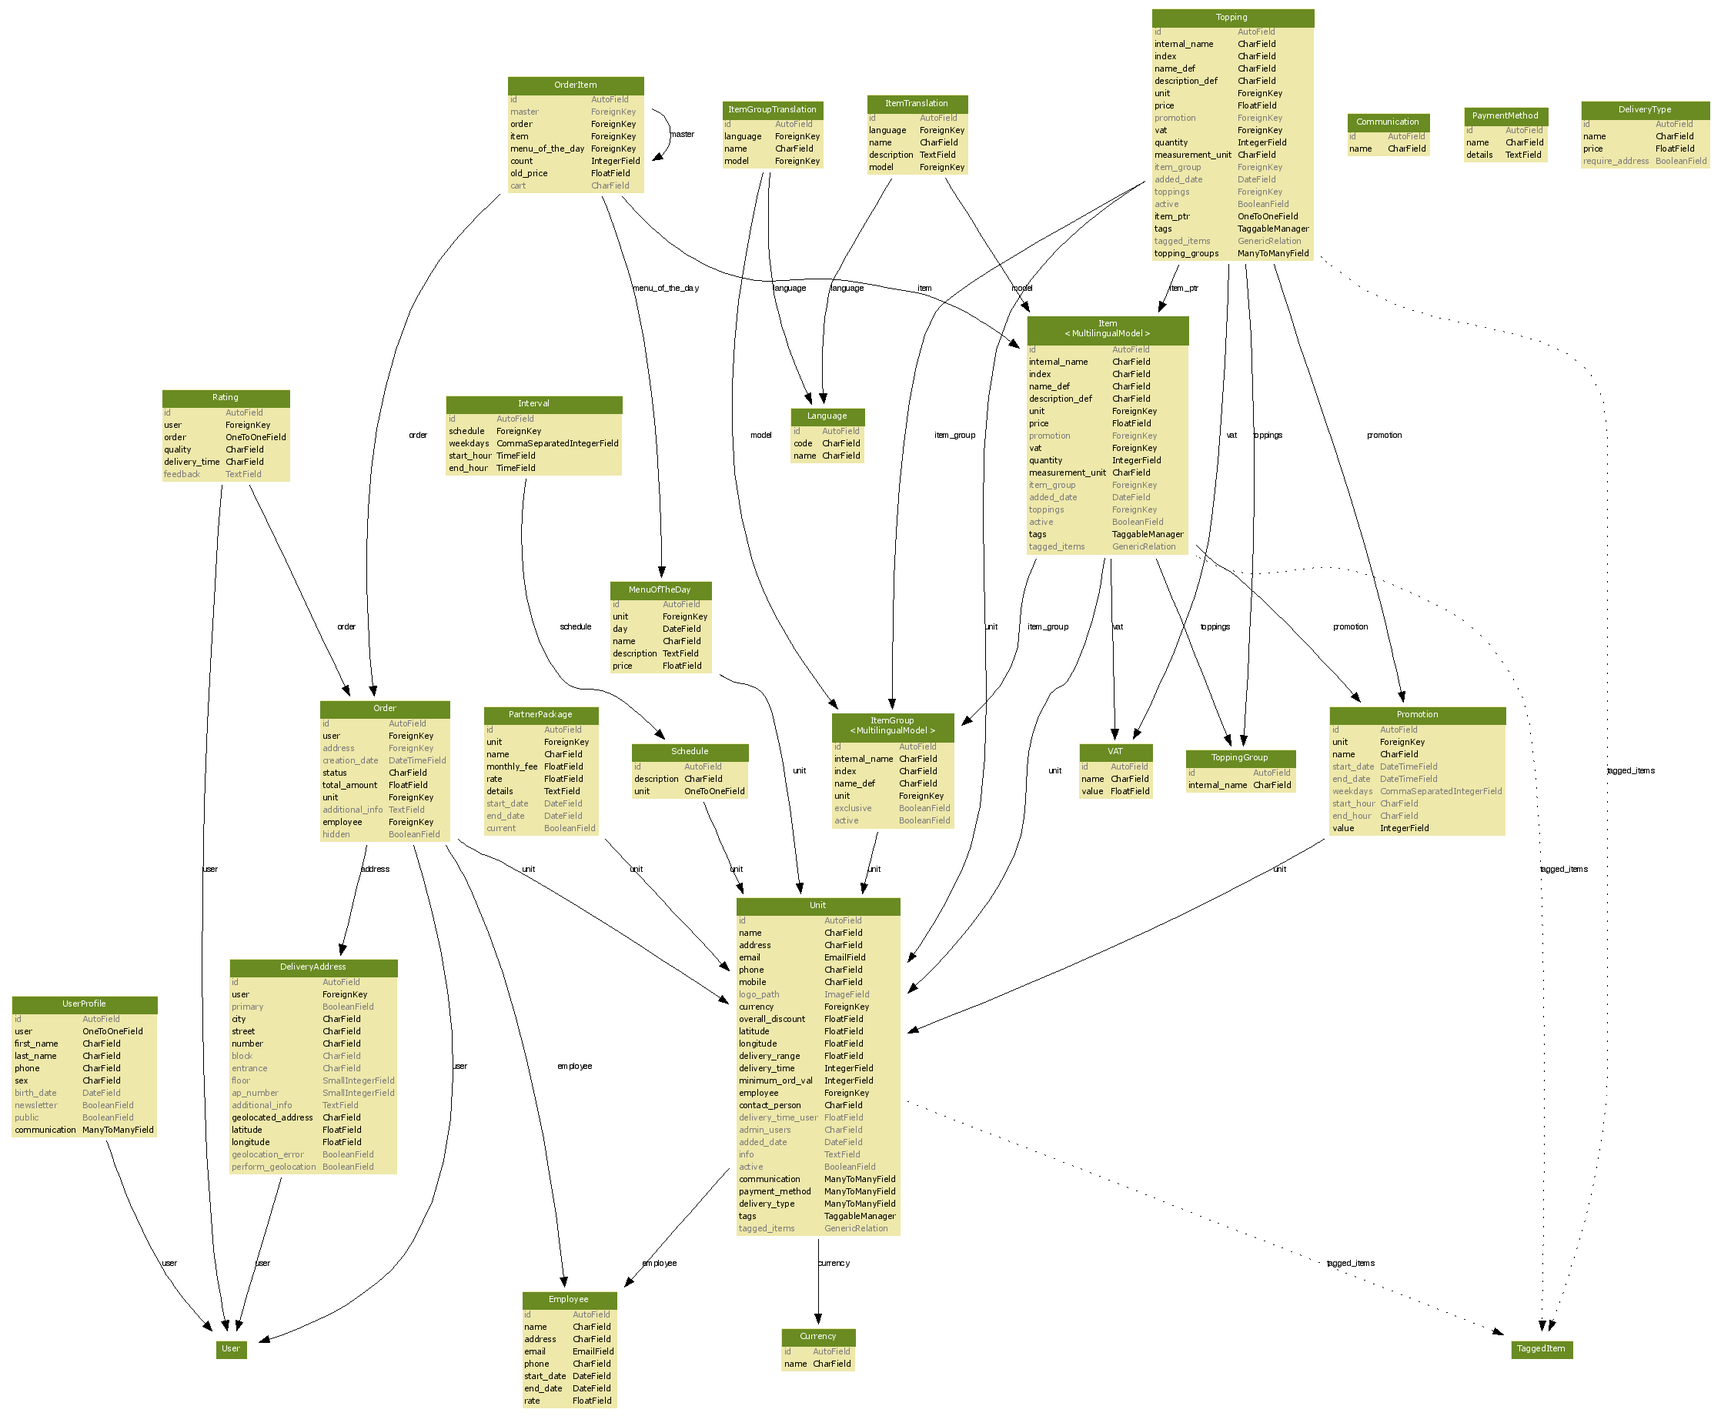
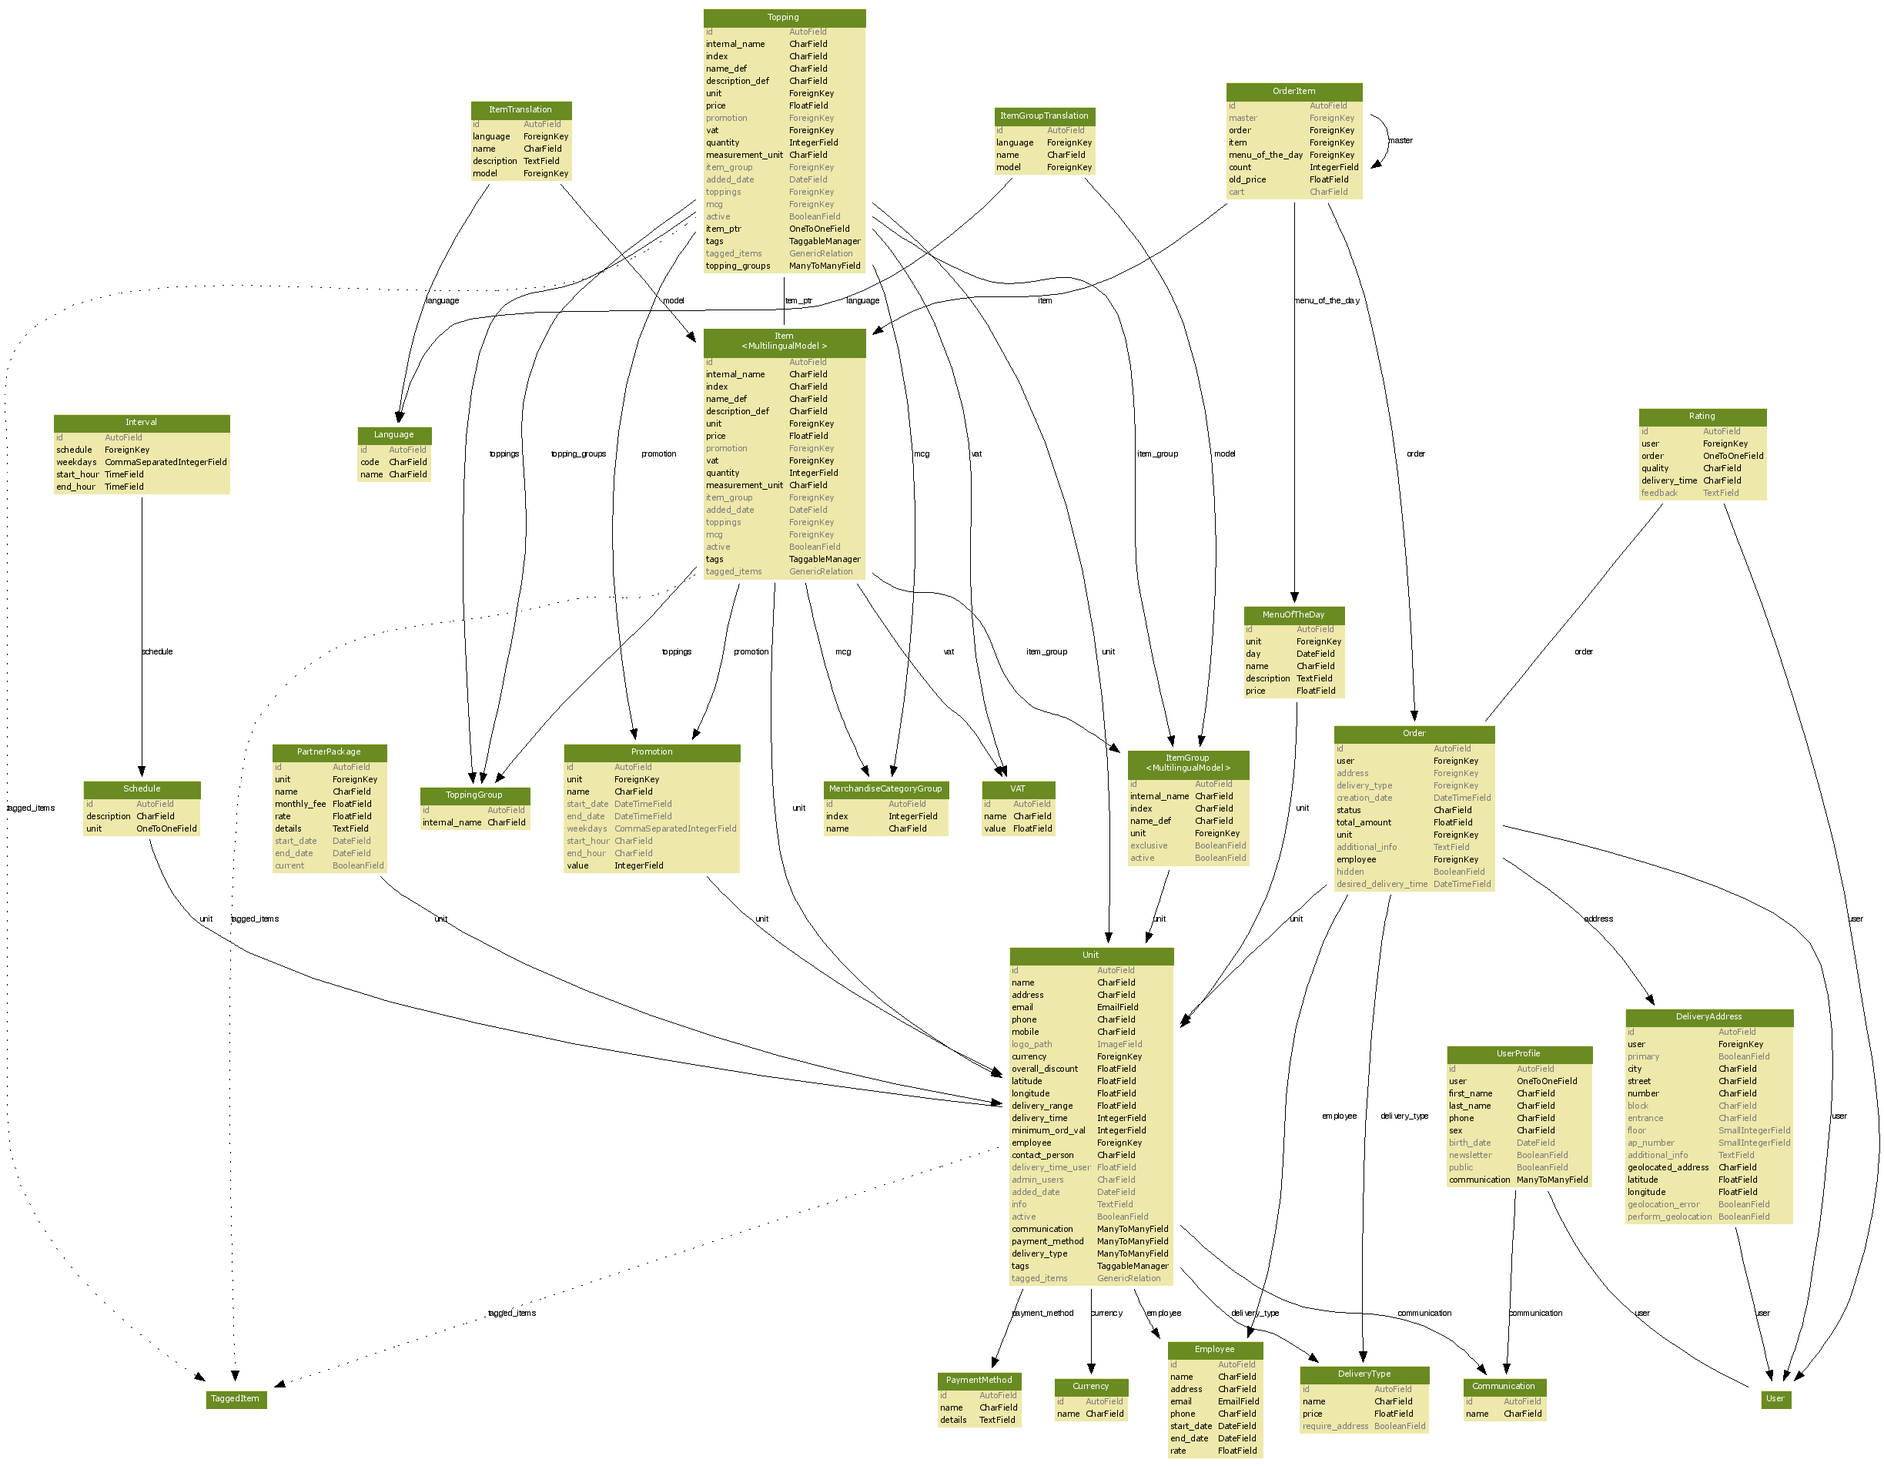
mcg and small spelling corrections

diff --git a/menu/migrations/0018_auto__add_merchandisecategorygroup__add_field_item_mcg.py b/menu/migrations/0018_auto__add_merchandisecategorygroup__add_field_item_mcg.py
@@ -1,0 +1,209 @@
+# encoding: utf-8
+import datetime
+from south.db import db
+from south.v2 import SchemaMigration
+from django.db import models
+
+class Migration(SchemaMigration):
+
+    def forwards(self, orm):
+        
+        # Adding model 'MerchandiseCategoryGroup'
+        db.create_table('menu_merchandisecategorygroup', (
+            ('id', self.gf('django.db.models.fields.AutoField')(primary_key=True)),
+            ('index', self.gf('django.db.models.fields.IntegerField')()),
+            ('name', self.gf('django.db.models.fields.CharField')(max_length=50)),
+        ))
+        db.send_create_signal('menu', ['MerchandiseCategoryGroup'])
+
+        # Adding field 'Item.mcg'
+        db.add_column('menu_item', 'mcg', self.gf('django.db.models.fields.related.ForeignKey')(to=orm['menu.MerchandiseCategoryGroup'], null=True, blank=True), keep_default=False)
+
+
+    def backwards(self, orm):
+        
+        # Deleting model 'MerchandiseCategoryGroup'
+        db.delete_table('menu_merchandisecategorygroup')
+
+        # Deleting field 'Item.mcg'
+        db.delete_column('menu_item', 'mcg_id')
+
+
+    models = {
+        'contenttypes.contenttype': {
+            'Meta': {'ordering': "('name',)", 'unique_together': "(('app_label', 'model'),)", 'object_name': 'ContentType', 'db_table': "'django_content_type'"},
+            'app_label': ('django.db.models.fields.CharField', [], {'max_length': '100'}),
+            'id': ('django.db.models.fields.AutoField', [], {'primary_key': 'True'}),
+            'model': ('django.db.models.fields.CharField', [], {'max_length': '100'}),
+            'name': ('django.db.models.fields.CharField', [], {'max_length': '100'})
+        },
+        'menu.item': {
+            'Meta': {'ordering': "['index']", 'object_name': 'Item'},
+            'active': ('django.db.models.fields.BooleanField', [], {'default': 'True'}),
+            'added_date': ('django.db.models.fields.DateField', [], {'auto_now_add': 'True', 'blank': 'True'}),
+            'description_def': ('django.db.models.fields.CharField', [], {'max_length': '200'}),
+            'id': ('django.db.models.fields.AutoField', [], {'primary_key': 'True'}),
+            'index': ('django.db.models.fields.CharField', [], {'max_length': '50'}),
+            'internal_name': ('django.db.models.fields.CharField', [], {'max_length': '50'}),
+            'item_group': ('django.db.models.fields.related.ForeignKey', [], {'to': "orm['menu.ItemGroup']", 'null': 'True', 'blank': 'True'}),
+            'mcg': ('django.db.models.fields.related.ForeignKey', [], {'to': "orm['menu.MerchandiseCategoryGroup']", 'null': 'True', 'blank': 'True'}),
+            'measurement_unit': ('django.db.models.fields.CharField', [], {'default': "'GR'", 'max_length': '2'}),
+            'name_def': ('django.db.models.fields.CharField', [], {'max_length': '50'}),
+            'price': ('django.db.models.fields.FloatField', [], {}),
+            'promotion': ('django.db.models.fields.related.ForeignKey', [], {'to': "orm['menu.Promotion']", 'null': 'True', 'blank': 'True'}),
+            'quantity': ('django.db.models.fields.IntegerField', [], {}),
+            'toppings': ('django.db.models.fields.related.ForeignKey', [], {'to': "orm['menu.ToppingGroup']", 'null': 'True', 'blank': 'True'}),
+            'unit': ('django.db.models.fields.related.ForeignKey', [], {'to': "orm['restaurant.Unit']"}),
+            'vat': ('django.db.models.fields.related.ForeignKey', [], {'to': "orm['menu.VAT']"})
+        },
+        'menu.itemgroup': {
+            'Meta': {'ordering': "['index']", 'object_name': 'ItemGroup'},
+            'active': ('django.db.models.fields.BooleanField', [], {'default': 'True'}),
+            'exclusive': ('django.db.models.fields.BooleanField', [], {'default': 'False'}),
+            'id': ('django.db.models.fields.AutoField', [], {'primary_key': 'True'}),
+            'index': ('django.db.models.fields.CharField', [], {'max_length': '50'}),
+            'internal_name': ('django.db.models.fields.CharField', [], {'max_length': '50'}),
+            'name_def': ('django.db.models.fields.CharField', [], {'max_length': '50'}),
+            'unit': ('django.db.models.fields.related.ForeignKey', [], {'to': "orm['restaurant.Unit']"})
+        },
+        'menu.itemgrouptranslation': {
+            'Meta': {'object_name': 'ItemGroupTranslation'},
+            'id': ('django.db.models.fields.AutoField', [], {'primary_key': 'True'}),
+            'language': ('django.db.models.fields.related.ForeignKey', [], {'to': "orm['menu.Language']"}),
+            'model': ('django.db.models.fields.related.ForeignKey', [], {'to': "orm['menu.ItemGroup']"}),
+            'name': ('django.db.models.fields.CharField', [], {'max_length': '100'})
+        },
+        'menu.itemtranslation': {
+            'Meta': {'object_name': 'ItemTranslation'},
+            'description': ('django.db.models.fields.TextField', [], {}),
+            'id': ('django.db.models.fields.AutoField', [], {'primary_key': 'True'}),
+            'language': ('django.db.models.fields.related.ForeignKey', [], {'to': "orm['menu.Language']"}),
+            'model': ('django.db.models.fields.related.ForeignKey', [], {'to': "orm['menu.Item']"}),
+            'name': ('django.db.models.fields.CharField', [], {'max_length': '100'})
+        },
+        'menu.language': {
+            'Meta': {'object_name': 'Language'},
+            'code': ('django.db.models.fields.CharField', [], {'max_length': '5'}),
+            'id': ('django.db.models.fields.AutoField', [], {'primary_key': 'True'}),
+            'name': ('django.db.models.fields.CharField', [], {'max_length': '16'})
+        },
+        'menu.menuoftheday': {
+            'Meta': {'ordering': "['-day']", 'object_name': 'MenuOfTheDay'},
+            'day': ('django.db.models.fields.DateField', [], {}),
+            'description': ('django.db.models.fields.TextField', [], {}),
+            'id': ('django.db.models.fields.AutoField', [], {'primary_key': 'True'}),
+            'name': ('django.db.models.fields.CharField', [], {'max_length': '50'}),
+            'price': ('django.db.models.fields.FloatField', [], {}),
+            'unit': ('django.db.models.fields.related.ForeignKey', [], {'to': "orm['restaurant.Unit']"})
+        },
+        'menu.merchandisecategorygroup': {
+            'Meta': {'object_name': 'MerchandiseCategoryGroup'},
+            'id': ('django.db.models.fields.AutoField', [], {'primary_key': 'True'}),
+            'index': ('django.db.models.fields.IntegerField', [], {}),
+            'name': ('django.db.models.fields.CharField', [], {'max_length': '50'})
+        },
+        'menu.promotion': {
+            'Meta': {'ordering': "['-start_date']", 'object_name': 'Promotion'},
+            'end_date': ('django.db.models.fields.DateTimeField', [], {'null': 'True', 'blank': 'True'}),
+            'end_hour': ('django.db.models.fields.CharField', [], {'max_length': '5', 'null': 'True', 'blank': 'True'}),
+            'id': ('django.db.models.fields.AutoField', [], {'primary_key': 'True'}),
+            'name': ('django.db.models.fields.CharField', [], {'max_length': '50'}),
+            'start_date': ('django.db.models.fields.DateTimeField', [], {'null': 'True', 'blank': 'True'}),
+            'start_hour': ('django.db.models.fields.CharField', [], {'max_length': '5', 'null': 'True', 'blank': 'True'}),
+            'unit': ('django.db.models.fields.related.ForeignKey', [], {'to': "orm['restaurant.Unit']"}),
+            'value': ('django.db.models.fields.IntegerField', [], {'default': '0'}),
+            'weekdays': ('django.db.models.fields.CommaSeparatedIntegerField', [], {'max_length': '13', 'null': 'True', 'blank': 'True'})
+        },
+        'menu.topping': {
+            'Meta': {'ordering': "['index']", 'object_name': 'Topping', '_ormbases': ['menu.Item']},
+            'item_ptr': ('django.db.models.fields.related.OneToOneField', [], {'to': "orm['menu.Item']", 'unique': 'True', 'primary_key': 'True'}),
+            'topping_groups': ('django.db.models.fields.related.ManyToManyField', [], {'to': "orm['menu.ToppingGroup']", 'symmetrical': 'False'})
+        },
+        'menu.toppinggroup': {
+            'Meta': {'object_name': 'ToppingGroup'},
+            'id': ('django.db.models.fields.AutoField', [], {'primary_key': 'True'}),
+            'internal_name': ('django.db.models.fields.CharField', [], {'max_length': '50'})
+        },
+        'menu.vat': {
+            'Meta': {'object_name': 'VAT'},
+            'id': ('django.db.models.fields.AutoField', [], {'primary_key': 'True'}),
+            'name': ('django.db.models.fields.CharField', [], {'max_length': '20'}),
+            'value': ('django.db.models.fields.FloatField', [], {})
+        },
+        'restaurant.communication': {
+            'Meta': {'object_name': 'Communication'},
+            'id': ('django.db.models.fields.AutoField', [], {'primary_key': 'True'}),
+            'name': ('django.db.models.fields.CharField', [], {'max_length': '200'})
+        },
+        'restaurant.currency': {
+            'Meta': {'object_name': 'Currency'},
+            'id': ('django.db.models.fields.AutoField', [], {'primary_key': 'True'}),
+            'name': ('django.db.models.fields.CharField', [], {'max_length': '20'})
+        },
+        'restaurant.deliverytype': {
+            'Meta': {'object_name': 'DeliveryType'},
+            'id': ('django.db.models.fields.AutoField', [], {'primary_key': 'True'}),
+            'name': ('django.db.models.fields.CharField', [], {'max_length': '100'}),
+            'price': ('django.db.models.fields.FloatField', [], {}),
+            'require_address': ('django.db.models.fields.BooleanField', [], {'default': 'False'})
+        },
+        'restaurant.employee': {
+            'Meta': {'object_name': 'Employee'},
+            'address': ('django.db.models.fields.CharField', [], {'max_length': '200'}),
+            'email': ('django.db.models.fields.EmailField', [], {'max_length': '75'}),
+            'end_date': ('django.db.models.fields.DateField', [], {}),
+            'id': ('django.db.models.fields.AutoField', [], {'primary_key': 'True'}),
+            'name': ('django.db.models.fields.CharField', [], {'max_length': '100'}),
+            'phone': ('django.db.models.fields.CharField', [], {'max_length': '15'}),
+            'rate': ('django.db.models.fields.FloatField', [], {}),
+            'start_date': ('django.db.models.fields.DateField', [], {})
+        },
+        'restaurant.paymentmethod': {
+            'Meta': {'object_name': 'PaymentMethod'},
+            'details': ('django.db.models.fields.TextField', [], {}),
+            'id': ('django.db.models.fields.AutoField', [], {'primary_key': 'True'}),
+            'name': ('django.db.models.fields.CharField', [], {'max_length': '100'})
+        },
+        'restaurant.unit': {
+            'Meta': {'object_name': 'Unit'},
+            'active': ('django.db.models.fields.BooleanField', [], {'default': 'True'}),
+            'added_date': ('django.db.models.fields.DateField', [], {'auto_now_add': 'True', 'blank': 'True'}),
+            'address': ('django.db.models.fields.CharField', [], {'max_length': '200'}),
+            'admin_users': ('django.db.models.fields.CharField', [], {'max_length': '100', 'null': 'True', 'blank': 'True'}),
+            'communication': ('django.db.models.fields.related.ManyToManyField', [], {'to': "orm['restaurant.Communication']", 'symmetrical': 'False'}),
+            'contact_person': ('django.db.models.fields.CharField', [], {'max_length': '50'}),
+            'currency': ('django.db.models.fields.related.ForeignKey', [], {'related_name': "'units_using_this'", 'to': "orm['restaurant.Currency']"}),
+            'delivery_range': ('django.db.models.fields.FloatField', [], {}),
+            'delivery_time': ('django.db.models.fields.IntegerField', [], {}),
+            'delivery_time_user': ('django.db.models.fields.FloatField', [], {'null': 'True', 'blank': 'True'}),
+            'delivery_type': ('django.db.models.fields.related.ManyToManyField', [], {'to': "orm['restaurant.DeliveryType']", 'symmetrical': 'False'}),
+            'email': ('django.db.models.fields.EmailField', [], {'max_length': '75'}),
+            'employee': ('django.db.models.fields.related.ForeignKey', [], {'to': "orm['restaurant.Employee']"}),
+            'id': ('django.db.models.fields.AutoField', [], {'primary_key': 'True'}),
+            'info': ('django.db.models.fields.TextField', [], {'null': 'True', 'blank': 'True'}),
+            'latitude': ('django.db.models.fields.FloatField', [], {}),
+            'logo_path': ('django.db.models.fields.files.ImageField', [], {'max_length': '100', 'null': 'True', 'blank': 'True'}),
+            'longitude': ('django.db.models.fields.FloatField', [], {}),
+            'minimum_ord_val': ('django.db.models.fields.IntegerField', [], {}),
+            'mobile': ('django.db.models.fields.CharField', [], {'max_length': '15'}),
+            'name': ('django.db.models.fields.CharField', [], {'max_length': '50'}),
+            'overall_discount': ('django.db.models.fields.FloatField', [], {}),
+            'payment_method': ('django.db.models.fields.related.ManyToManyField', [], {'to': "orm['restaurant.PaymentMethod']", 'symmetrical': 'False'}),
+            'phone': ('django.db.models.fields.CharField', [], {'max_length': '15'})
+        },
+        'taggit.tag': {
+            'Meta': {'object_name': 'Tag'},
+            'id': ('django.db.models.fields.AutoField', [], {'primary_key': 'True'}),
+            'name': ('django.db.models.fields.CharField', [], {'max_length': '100'}),
+            'slug': ('django.db.models.fields.SlugField', [], {'unique': 'True', 'max_length': '100', 'db_index': 'True'})
+        },
+        'taggit.taggeditem': {
+            'Meta': {'object_name': 'TaggedItem'},
+            'content_type': ('django.db.models.fields.related.ForeignKey', [], {'related_name': "'taggit_taggeditem_tagged_items'", 'to': "orm['contenttypes.ContentType']"}),
+            'id': ('django.db.models.fields.AutoField', [], {'primary_key': 'True'}),
+            'object_id': ('django.db.models.fields.IntegerField', [], {'db_index': 'True'}),
+            'tag': ('django.db.models.fields.related.ForeignKey', [], {'related_name': "'taggit_taggeditem_items'", 'to': "orm['taggit.Tag']"})
+        }
+    }
+
+    complete_apps = ['menu']

diff --git a/userprofiles/views.py b/userprofiles/views.py
@@ -62,13 +62,13 @@ def invite_friend(request):
                 message = _('Join me for lunch!')
             # validations:
             if email == request.user.email:
-                messages.error(request, _('You cannot sens an invitation to youself!'))
+                messages.error(request, _('You cannot sens an invitation to yourself!'))
                 return redirect('profiles_profile_detail', username=request.user.username)
             if JoinInvitation.objects.filter(from_user=request.user).filter(contact__email=email).exists():
-                messages.error(request, _('You allready sent an invitation to this email!'))
+                messages.error(request, _('You already sent an invitation to this email!'))
                 return redirect('profiles_profile_detail', username=request.user.username)
             if User.objects.filter(email=email).exists():
-                messages.error(request, _('There is allready a register user with this email!'))
+                messages.error(request, _('There is already a register user with this email!'))
                 return redirect('profiles_profile_detail', username=request.user.username)
             # end validations
             JoinInvitation.objects.send_invitation(request.user, email, message)

diff --git a/menu/models.py b/menu/models.py
@@ -55,6 +55,10 @@ class ToppingGroup(models.Model):
       verbose_name = _('ToppingGroup')
       verbose_name_plural = _('ToppingGroup')
 
+class MerchandiseCategoryGroup(models.Model):
+    index = models.IntegerField(_('index'))
+    name = models.CharField(_('name'), max_length=50)
+
 class ItemTranslation(models.Model):
   language = models.ForeignKey('Language')
   name = models.CharField(_('name'), max_length=100)
@@ -79,6 +83,7 @@ class Item(MultilingualModel):
   item_group = models.ForeignKey(ItemGroup, verbose_name=_('item group'), null=True, blank=True)
   added_date = models.DateField(_('added date'), auto_now_add=True, editable=False)
   toppings = models.ForeignKey(ToppingGroup, verbose_name=_('toppings'), null=True, blank=True)
+  mcg = models.ForeignKey(MerchandiseCategoryGroup, verbose_name=('mcg'), null=True, blank=True)
   active = models.BooleanField(_('active'), default=True)
 
   tags = TaggableManager()

diff --git a/order/views.py b/order/views.py
@@ -148,18 +148,6 @@ def get_current_order(request, unit_id):
     unit = get_object_or_404(Unit, pk=unit_id)
     return {'order': __get_current_order(request, unit)}
 
-def __check_desired_open(unit, form):
-    desired_delivery_time = None
-    if form.cleaned_data.has_key('desired_delivery_time'):
-        desired_delivery_time = form.cleaned_data['desired_delivery_time']
-    ve = forms.ValidationError(_('As the restaurant is closed please set a desired delivery time in the restaurant open hour range.'))
-    try:
-        print desired_delivery_time, unit.schedule._is_open(desired_delivery_time)
-        if not unit.schedule.is_open() and (not desired_delivery_time or not unit.schedule._is_open(desired_delivery_time)):
-            raise ve
-    except:
-        raise ve
-
 @login_required
 def send(request, unit_id):
     unit = get_object_or_404(Unit, pk=unit_id)

diff --git a/order/models.py b/order/models.py
@@ -22,7 +22,7 @@ class Order(models.Model):
     additional_info = models.TextField(_('additional info'), null=True, blank=True, help_text=_('Add here any relevant information.'))
     employee = models.ForeignKey('restaurant.Employee', verbose_name=_('employee'), help_text=_('The internal employee responsible for this order.'))
     hidden = models.BooleanField(_('hidden'))
-    desired_delivery_time = models.DateTimeField(_('desired delivery time'), null=True, blank=True, help_text=_('Use this to order for a later time (yyyy-mm-dd hh:mm).'))
+    desired_delivery_time = models.DateTimeField(_('desired delivery time'), null=True, blank=True, help_text=_('Request this to order for a later time (yyyy-mm-dd hh:mm).'))
 
     def update_total_amount(self):
         total = 0
